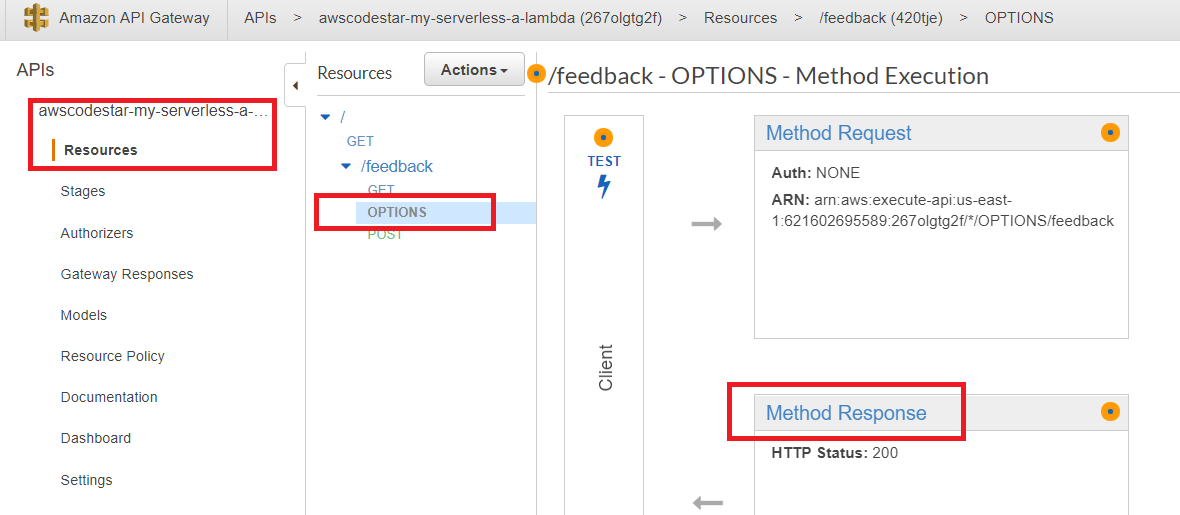
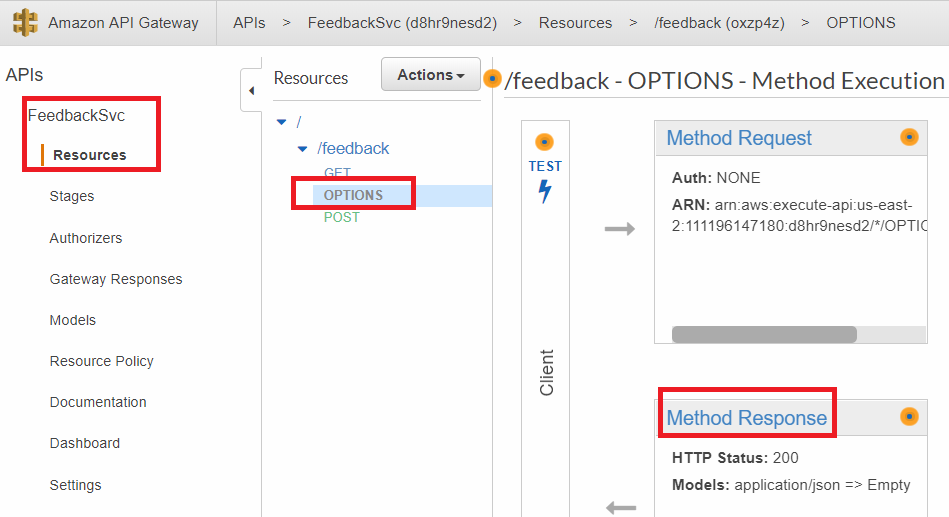
auth cleanup

diff --git a/docs/webui.md b/docs/webui.md
@@ -46,7 +46,7 @@ Refresh the preview window, you should have a web page displayed. If you still h
 
 ### Configure Cognito for authentication
 
-Go back to your [**Cognito**](https://us-west-2.console.aws.amazon.com/cognito/home?region=us-west-2 "AWS Cognito") user pool and in __App client settings__, do the following:
+Go back to your [**Cognito**](https://console.aws.amazon.com/cognito/home "AWS Cognito") user pool and in __App client settings__, do the following:
 
 * Enable __Cognito User Pool__ for webapp (mark the checkbox under **Enabled Identity Providers**)
 * Add Cloud9 preview URL with ==__/callback__== to the callback URL. For example:
@@ -86,26 +86,13 @@ Go to [**API Gateway**](https://us-west-2.console.aws.amazon.com/apigateway/home
 
 * Select __Enable CORS__ and click the button __Enable CORS and replace existing CORS headers__.
 
-    - Ignore the errors in the reponse. We will fix them in later steps.
+    - Ignore the errors if there is any. We will fix them in later steps.
 
 * A new method __OPTIONS__ has been created. Select it, then click __Method Response__.
 
   ![API Gateway - method reponse](../screenshots/api-gw-1.png)
 
-* Click the link __+ Add Response__ and add HTTP status code __200__. Click the {++Create++} checkmark to save.
-
-  ![API Gateway - status 200](../screenshots/api-gw-2.png)
-
-* Expand the code 200. Add below names to __Response Headers for 200__ one by one
-
-    |Name             |
-    |-----------------------------|
-    |Access-Control-Allow-Headers|
-    |Access-Control-Allow-Methods|
-    |Access-Control-Allow-Origin|
-
-
- * The final result should look like this:
+ * Make sure you have the following:
 
   ![API Gateway - status 200](../screenshots/api-gw-3.png)
 
@@ -115,7 +102,7 @@ Go to [**API Gateway**](https://us-west-2.console.aws.amazon.com/apigateway/home
 
 * Under __Integration Response__, expand the line by clicking the black arrow.
 
-* Add the folllowing to __Header Mappings__:
+* Make sure you have the folllowing __Header Mappings__ under the '200' response:
 
 |Response header              |Mapping value|
 |-----------------------------|-------------|
@@ -123,7 +110,7 @@ Go to [**API Gateway**](https://us-west-2.console.aws.amazon.com/apigateway/home
 |Access-Control-Allow-Methods|'POST,GET,OPTIONS'|
 |Access-Control-Allow-Origin |'*'|
 
-* The result looks like the following:
+* It should look like the following:
 
   ![API Gateway - header](../screenshots/api-gw-5.png)
 

diff --git a/docs/auth.md b/docs/auth.md
@@ -114,7 +114,7 @@ Make a note of the new password. You will need it to login to the application.
 
 ### Test adding feedback
 
-1. Back in Cloud9, test adding some new feedback with the below command, being sure to replace both ```eyJraW......rCtYSnaA``` in the Authorization header with your own ==*IdToken*== value.
+1\. Back in Cloud9, test adding some new feedback with the below command, being sure to replace both ```eyJraW......rCtYSnaA``` in the Authorization header with your own ==*IdToken*== value.
 
 ```bash hl_lines="1"
 curl -H "Authorization: eyJraW......rCtYSnaA" \
